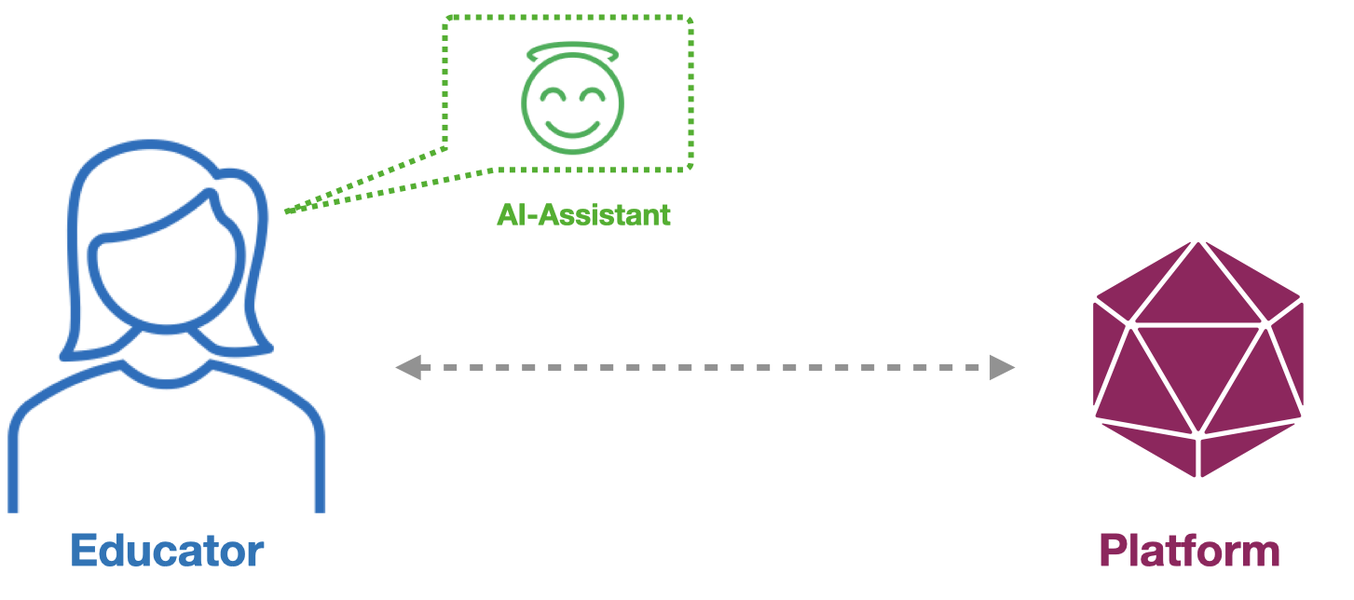
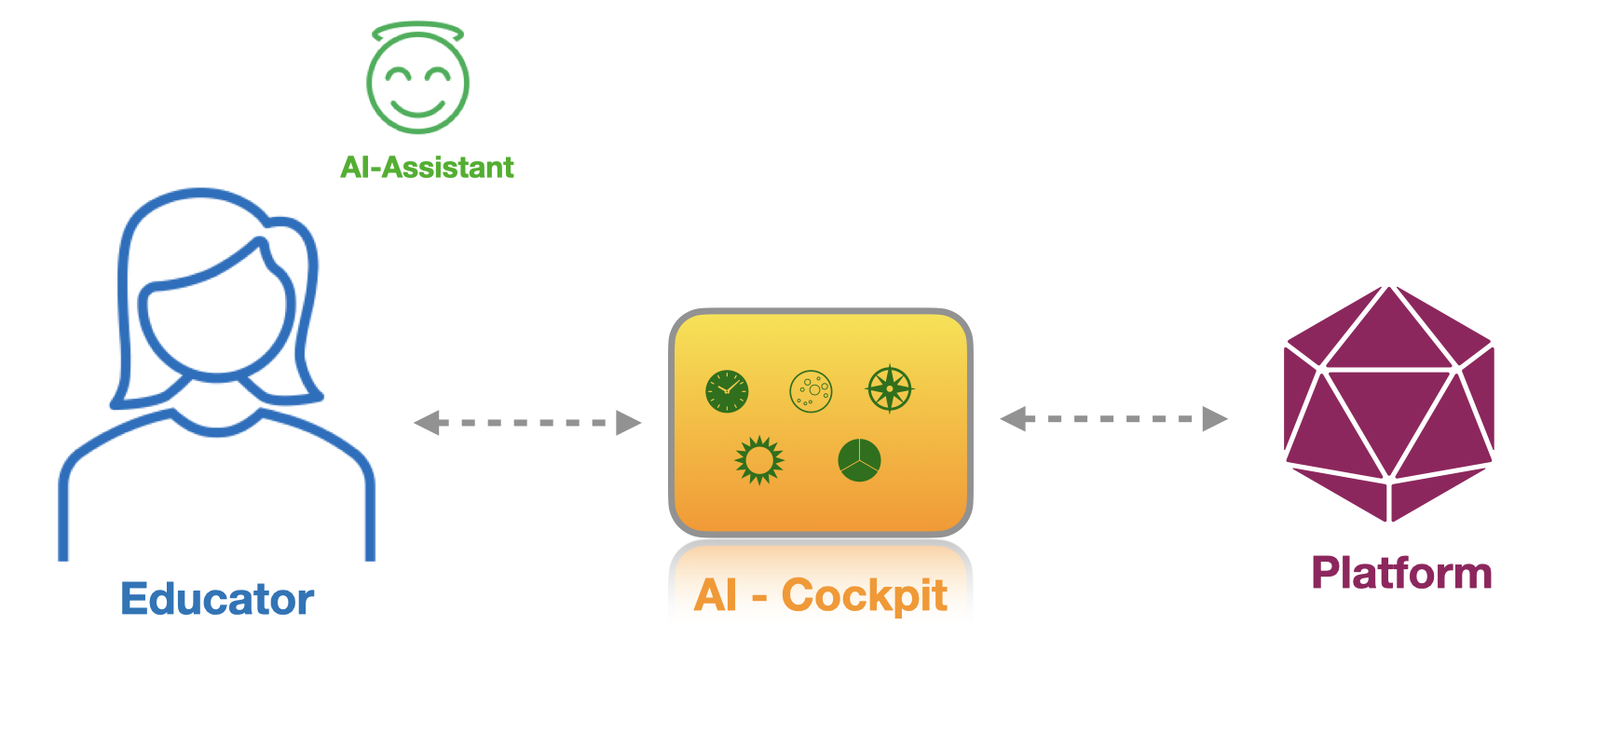
Update documentation

diff --git a/searchindex.js b/searchindex.js
@@ -1,1 +1,1 @@
-Search.setIndex({"docnames": ["ada", "ala", "alonzo", "author", "board", "emmy", "intro", "jorge", "maryam", "platformoverview", "team", "workflow"], "filenames": ["ada.md", "ala.md", "alonzo.md", "author.md", "board.md", "emmy.md", "intro.md", "jorge.md", "maryam.md", "platformoverview.md", "team.md", "workflow.md"], "titles": ["<font color=\"maroon\">AI-Learn Ada</font>", "<font color=\"maroon\">Pedagogical Design</font>", "<font color=\"maroon\">AI-Learn Alonzo</font>", "<font color=\"maroon\">AI-Learn Author</font>", "<font color=\"maroon\">Board of Advisors</font>", "<font color=\"maroon\">AI-Learn Emmy</font>", "<font color=\"maroon\">Overview</font>", "<font color=\"maroon\">AI-Learn Jorge</font>", "<font color=\"maroon\">AI-Learn Maryam</font>", "<font color=\"maroon\">Platform</font>", "<font color=\"maroon\">Project Team</font>", "<font color=\"maroon\">Workflow</font>"], "terms": {"base": [0, 1, 3, 5, 6, 8, 9, 11], "larg": [0, 3, 6, 11], "languag": [0, 3, 6, 11], "model": [0, 3, 4, 6, 11], "llm": [0, 3, 6, 11], "extract": [0, 3, 9, 11], "engin": [0, 2, 3, 9, 11], "automat": [0, 3, 9, 11], "gener": [0, 2, 9], "ala": [0, 1, 2, 3, 7, 11], "from": [0, 3, 4, 6, 11], "web": [0, 3, 11], "open": [0, 3, 10, 11], "educ": [0, 3, 4, 6, 11], "resourc": [0, 3, 6, 11], "oer": [0, 3, 11], "proprietari": [0, 3, 11], "digit": [0, 3, 4, 6, 7, 8, 9, 11], "materi": [0, 1, 3, 9, 11], "It": [0, 2, 3, 7, 8], "name": [0, 2, 7, 8], "after": [0, 2, 3, 7, 8], "british": 0, "mathematician": [0, 2, 8], "comput": 0, "scientist": [0, 4], "lovelac": 0, "The": [1, 3, 4, 9, 10, 11], "cornerston": 1, "ai": [1, 6, 9, 10, 11], "s": [1, 3, 4, 8, 9, 11], "pedagog": [], "smart": 1, "modular": [1, 3, 6, 11], "align": 1, "activ": [1, 4], "an": [1, 2, 3, 4, 5, 6, 9, 11], "semant": 1, "tripl": 1, "consist": [1, 9], "object": 1, "assess": 1, "tradit": 1, "forward": 1, "process": [1, 4], "instructor": [1, 3], "begin": 1, "instruct": [1, 3, 6, 7, 11], "develop": [1, 4, 6], "around": 1, "get": 1, "goal": [1, 4], "research": [1, 4, 6], "evid": 1, "strongli": 1, "suggest": 1, "outcom": 1, "can": [1, 3, 4, 6, 11], "improv": [1, 4, 6], "In": [1, 3, 4, 11], "identifi": [], "first": 1, "thei": 1, "embodi": [], "knowledg": [1, 4], "skill": [1, 6, 9, 11], "student": 1, "expect": 1, "master": 1, "second": 1, "stage": 1, "defin": 1, "measur": [1, 2], "evalu": [1, 6, 9], "whether": 1, "have": [1, 4, 6], "attain": 1, "ongo": 1, "primarili": 1, "form": 1, "final": 1, "come": 1, "last": 1, "how": [1, 11], "dure": 1, "us": [3, 4, 6, 11], "next": [], "describ": [], "detail": [], "A": [], "possibl": [], "futur": [], "ess16": [], "advanc": [2, 3, 9, 11], "analyt": [2, 4, 9], "insight": [2, 9], "just": [2, 4], "time": 2, "efficaci": [2, 9], "deploi": [2, 3, 6, 11], "american": 2, "church": 2, "wizard": [3, 9], "design": [3, 6, 9, 11], "canva": [3, 9, 11], "edit": [3, 11], "primari": 3, "end": 3, "user": 3, "tool": [3, 6, 11], "interact": [3, 11], "platform": [3, 6, 11], "typic": [1, 3], "present": 3, "mode": [3, 11], "work": [3, 4, 6, 11], "perform": [3, 4, 11], "ada": [3, 9, 11], "discoveri": [3, 11], "search": [3, 11], "against": [3, 11], "repositori": [3, 7, 9, 11], "jorg": [3, 9, 11], "recommend": [3, 9, 11], "ar": [1, 3, 4, 11], "popul": [3, 11], "also": [3, 4, 6, 11], "marketplac": [3, 11], "exchang": [3, 11], "licens": [3, 6, 11], "term": [3, 11], "set": [3, 4, 11], "individu": [3, 4], "institut": [3, 4, 11], "contributor": 3, "tag": [3, 11], "rate": [3, 11], "annot": [3, 11], "allow": 3, "creat": [3, 6, 9, 11], "scratch": [3, 11], "deploy": [3, 11], "manag": [3, 6, 7, 9, 11], "system": [3, 4, 5, 6, 9, 11], "standard": [3, 11], "protocol": [3, 11], "1edtech": [3, 11], "interoper": [3, 11], "lti": [3, 11], "intellig": [4, 5, 6, 9, 11], "tutor": [5, 6, 9, 11], "fulli": [], "toolset": 6, "discov": [], "share": 6, "data": 6, "enabl": [], "atom": [], "drive": [], "teach": [], "six": 9, "major": 9, "compon": [4, 9], "author": [9, 11], "alonzo": 9, "causal": [], "inferenc": [], "emmi": 9, "crowd": [7, 9], "searchabl": [7, 9], "pre": [6, 9], "configur": 9, "robust": [7, 9], "ip": [7, 9], "maryam": 9, "infrastructur": [8, 9], "includ": [6, 8, 9], "cloud": [8, 9], "servic": [8, 9], "secur": [8, 9], "scalabl": [8, 9], "integr": [8, 9], "democrat": [], "lower": [], "cost": 6, "increas": [], "valu": 6, "autom": [], "tediou": [], "part": [], "curriculum": [6, 9, 11], "har": [], "power": 6, "provid": 4, "librari": [], "leverag": [], "softwar": [], "methodolog": [], "govern": 4, "easi": [], "custom": 6, "vital": [], "new": 4, "area": [], "workforc": [], "adult": [], "deliv": 9, "qualiti": 6, "monitor": [], "establish": [], "market": [], "place": 6, "monet": [], "codebas": [], "made": [], "avail": [], "under": 6, "mit": 6, "sourc": [7, 9, 10], "argentian": 7, "writer": 7, "poet": 7, "borg": 7, "iranian": 8, "mirzakhani": 8, "learn": [1, 4, 6, 9, 10, 11], "led": 10, "co": [], "princip": [], "investig": [], "alfr": 10, "essa": 10, "ceo": 10, "druri": 10, "lane": 10, "media": 10, "llc": 10, "kinshuk": 10, "dean": 10, "colleg": 10, "inform": 10, "studi": 10, "univers": [4, 10], "north": 10, "texa": 10, "we": 6, "start": [], "becaus": [], "everi": 6, "citizen": 6, "should": 6, "access": 6, "afford": 6, "effect": [4, 6], "support": [], "train": 6, "worker": [], "onc": [], "throughout": [], "lifetim": [], "cut": 6, "out": 6, "middlemen": 6, "domain": [], "expert": [], "receiv": [], "action": [], "need": 6, "our": 6, "dramat": 6, "reduc": 6, "think": [], "import": [], "opportun": [], "reskil": [], "upskil": [], "histor": 6, "margin": 6, "learner": [4, 6, 9], "directli": 6, "hand": 6, "so": [], "acceler": [], "what": 6, "element": [], "more": 6, "colleagu": 6, "global": 6, "commun": [4, 6], "deep": [], "correct": [], "make": 6, "them": [], "least": 6, "10x": [], "achiev": 6, "5": 6, "size": 6, "repres": [], "breakthrough": [], "artifici": [], "By": [], "now": [], "complex": 4, "task": 4, "littl": [], "chang": [4, 6], "workflow": 6, "10": 6, "x": 6, "agent": 11, "assist": [4, 11], "behalf": 11, "topic": 9, "page": [], "http": [], "hai": [], "stanford": [], "edu": [], "transform": [4, 6], "scienc": 4, "societi": 4, "person": 9, "each": 9, "textbook": 1, "quizz": 1, "test": 1, "eveventu": 1, "formul": [1, 4], "state": 1, "mean": 1, "low": 1, "stake": 1, "believ": 6, "those": 6, "doe": 11, "specif": 6, "mission": [], "nbsp": [9, 11], "www": [], "imsglob": [], "org": [], "upon": [], "call": 6, "equat": 6, "emploi": 11, "follow": [4, 11], "associ": 4, "professor": 4, "memphi": 4, "sinc": 4, "januari": 4, "2001": 4, "hi": 4, "program": 4, "ha": 4, "focus": 4, "practic": 4, "forget": 4, "fact": 4, "memori": 4, "ultim": 4, "thi": 4, "accur": 4, "mathemat": 4, "understand": 4, "factor": 4, "recal": 4, "doctor": 4, "thesi": 4, "john": 4, "r": 4, "anderson": 4, "septemb": 4, "2005": 4, "broaden": 4, "simpl": 4, "declar": 4, "consid": 4, "transfer": 4, "procedur": 4, "multipl": 4, "generaliz": 4, "postdoctor": 4, "kenneth": 4, "koeding": 4, "2008": 4, "continu": 4, "some": 4, "previou": 4, "theme": 4, "focu": 4, "depend": 4, "structur": 4, "conceptu": 4, "oleksandra": 4, "depart": 4, "school": 4, "social": 4, "technolog": 4, "technic": 4, "munich": 4, "she": 4, "adjunct": 4, "affili": 4, "centr": 4, "south": 4, "australia": 4, "At": 4, "tum": 4, "lead": 4, "group": 4, "leap": 4, "interest": 4, "past": 4, "interdisciplinar": 4, "pari": 4, "appli": 4, "nation": 4, "singapor": 4, "driven": 4, "about": 4, "ani": 4, "relat": 4, "her": 4, "strong": 4, "foundat": 4, "intervent": 4, "facilit": 4, "peer": 4, "level": 4, "cours": 4, "keen": 4, "len": 4, "analyz": 4, "organ": 4, "network": 4, "dynam": 4, "adapt": 4, "multi": 4, "among": 4, "heterogen": 4, "both": 4, "explanatori": 4, "descript": 4, "wa": 4, "vice": 4, "presid": 4, "execut": 4, "committe": 4, "solar": 4, "remain": 4, "member": 4, "project": [], "code": 6, "releas": 6, "being": 6}, "objects": {}, "objtypes": {}, "objnames": {}, "titleterms": {"font": [0, 1, 2, 3, 4, 5, 6, 7, 8, 9, 10, 11], "color": [0, 1, 2, 3, 4, 5, 6, 7, 8, 9, 10, 11], "maroon": [0, 1, 2, 3, 4, 5, 6, 7, 8, 9, 10, 11], "ai": [0, 2, 3, 5, 7, 8], "learn": [0, 2, 3, 5, 7, 8], "ada": 0, "what": [], "ar": [], "ala": [], "backward": 1, "design": 1, "adapt": [], "system": [], "alonzo": 2, "author": 3, "board": 4, "advisor": 4, "emmi": 5, "overview": 6, "platform": 9, "why": [], "open": 6, "sourc": 6, "jorg": 7, "maryam": 8, "team": 10, "mission": 6, "how": [], "doe": [], "work": [], "align": [], "activ": [], "user": [], "experi": [], "pedagog": 1, "workflow": 11, "philip": 4, "pavlik": 4, "sasha": 4, "poquet": 4, "princip": [], "investig": [], "project": 10}, "envversion": {"sphinx.domains.c": 2, "sphinx.domains.changeset": 1, "sphinx.domains.citation": 1, "sphinx.domains.cpp": 6, "sphinx.domains.index": 1, "sphinx.domains.javascript": 2, "sphinx.domains.math": 2, "sphinx.domains.python": 3, "sphinx.domains.rst": 2, "sphinx.domains.std": 2, "sphinx.ext.intersphinx": 1, "sphinxcontrib.bibtex": 9, "sphinx": 56}})
+Search.setIndex({"docnames": ["ada", "ala", "alonzo", "author", "board", "emmy", "intro", "jorge", "maryam", "platformoverview", "team", "workflow"], "filenames": ["ada.md", "ala.md", "alonzo.md", "author.md", "board.md", "emmy.md", "intro.md", "jorge.md", "maryam.md", "platformoverview.md", "team.md", "workflow.md"], "titles": ["<font color=\"maroon\">AI-Learn Ada</font>", "<font color=\"maroon\">Pedagogical Design</font>", "<font color=\"maroon\">AI-Learn Alonzo</font>", "<font color=\"maroon\">AI-Learn Author</font>", "<font color=\"maroon\">Board of Advisors</font>", "<font color=\"maroon\">AI-Learn Emmy</font>", "<font color=\"maroon\">Overview</font>", "<font color=\"maroon\">AI-Learn Jorge</font>", "<font color=\"maroon\">AI-Learn Maryam</font>", "<font color=\"maroon\">Platform</font>", "<font color=\"maroon\">Project Team</font>", "<font color=\"maroon\">AI-Cockpit</font>"], "terms": {"base": [0, 1, 3, 5, 6, 8, 9, 11], "larg": [0, 3, 6, 11], "languag": [0, 3, 6, 11], "model": [0, 3, 4, 6, 11], "llm": [0, 3, 6, 11], "extract": [0, 3, 9, 11], "engin": [0, 2, 3, 9, 11], "automat": [0, 3, 9, 11], "gener": [0, 2, 9], "ala": [0, 1, 2, 3, 7, 11], "from": [0, 3, 4, 6, 11], "web": [0, 3, 11], "open": [0, 3, 10, 11], "educ": [0, 3, 4, 6, 11], "resourc": [0, 3, 6, 11], "oer": [0, 3, 11], "proprietari": [0, 3, 11], "digit": [0, 3, 4, 6, 7, 8, 9, 11], "materi": [0, 1, 3, 9, 11], "It": [0, 2, 3, 7, 8], "name": [0, 2, 7, 8], "after": [0, 2, 3, 7, 8], "british": 0, "mathematician": [0, 2, 8], "comput": 0, "scientist": [0, 4], "lovelac": 0, "The": [1, 3, 4, 9, 10, 11], "cornerston": 1, "ai": [1, 6, 9, 10], "s": [1, 3, 4, 8, 9, 11], "pedagog": [], "smart": 1, "modular": [1, 3, 6, 11], "align": 1, "activ": [1, 4], "an": [1, 2, 3, 4, 5, 6, 9, 11], "semant": 1, "tripl": 1, "consist": [1, 9, 11], "object": 1, "assess": 1, "tradit": 1, "forward": 1, "process": [1, 4], "instructor": [1, 3], "begin": 1, "instruct": [1, 3, 6, 7, 11], "develop": [1, 4, 6], "around": 1, "get": 1, "goal": [1, 4], "research": [1, 4, 6], "evid": 1, "strongli": 1, "suggest": 1, "outcom": 1, "can": [1, 3, 4, 6, 11], "improv": [1, 4, 6, 11], "In": [1, 3, 4, 11], "identifi": [], "first": 1, "thei": 1, "embodi": [], "knowledg": [1, 4], "skill": [1, 6, 9, 11], "student": 1, "expect": 1, "master": 1, "second": 1, "stage": 1, "defin": 1, "measur": [1, 2], "evalu": [1, 6, 9], "whether": 1, "have": [1, 4, 6], "attain": 1, "ongo": 1, "primarili": 1, "form": 1, "final": 1, "come": 1, "last": 1, "how": [1, 11], "dure": 1, "us": [3, 4, 6, 11], "next": [], "describ": [], "detail": [], "A": 11, "possibl": [], "futur": [], "ess16": [], "advanc": [2, 3, 9, 11], "analyt": [2, 4, 9], "insight": [2, 9], "just": [2, 4], "time": 2, "efficaci": [2, 9], "deploi": [2, 3, 6, 11], "american": 2, "church": 2, "wizard": [3, 9, 11], "design": [3, 6, 9, 11], "canva": [3, 9, 11], "edit": [3, 11], "primari": 3, "end": 3, "user": 3, "tool": [3, 6, 11], "interact": 3, "platform": [3, 6], "typic": [1, 3, 11], "present": [3, 11], "mode": [3, 11], "work": [3, 4, 6, 11], "perform": [3, 4, 11], "ada": [3, 9, 11], "discoveri": [3, 11], "search": [3, 11], "against": [3, 11], "repositori": [3, 7, 9, 11], "jorg": [3, 9, 11], "recommend": [3, 9, 11], "ar": [1, 3, 4, 11], "popul": [3, 11], "also": [3, 4, 6, 11], "marketplac": [3, 11], "exchang": [3, 11], "licens": [3, 6, 11], "term": [3, 11], "set": [3, 4, 11], "individu": [3, 4], "institut": [3, 4, 11], "contributor": 3, "tag": [3, 11], "rate": [3, 11], "annot": [3, 11], "allow": 3, "creat": [3, 6, 9, 11], "scratch": [3, 11], "deploy": [3, 11], "manag": [3, 6, 7, 9, 11], "system": [3, 4, 5, 6, 9, 11], "standard": [3, 11], "protocol": [3, 11], "1edtech": [3, 11], "interoper": [3, 11], "lti": [3, 11], "intellig": [4, 5, 6, 9, 11], "tutor": [5, 6, 9, 11], "fulli": [], "toolset": 6, "discov": [], "share": 6, "data": 6, "enabl": [], "atom": [], "drive": [], "teach": [], "six": 9, "major": [9, 11], "compon": [4, 9], "author": [9, 11], "alonzo": 9, "causal": [], "inferenc": [], "emmi": 9, "crowd": [7, 9], "searchabl": [7, 9], "pre": [6, 9], "configur": 9, "robust": [7, 9], "ip": [7, 9], "maryam": 9, "infrastructur": [8, 9], "includ": [6, 8, 9], "cloud": [8, 9], "servic": [8, 9], "secur": [8, 9], "scalabl": [8, 9], "integr": [8, 9], "democrat": [], "lower": [], "cost": 6, "increas": [], "valu": 6, "autom": [], "tediou": [], "part": 11, "curriculum": [6, 9, 11], "har": [], "power": 6, "provid": 4, "librari": [], "leverag": [], "softwar": [], "methodolog": [], "govern": 4, "easi": [], "custom": 6, "vital": [], "new": 4, "area": [], "workforc": [], "adult": [], "deliv": 9, "qualiti": 6, "monitor": [], "establish": [], "market": [], "place": 6, "monet": [], "codebas": [], "made": [], "avail": [], "under": 6, "mit": 6, "sourc": [7, 9, 10], "argentian": 7, "writer": 7, "poet": 7, "borg": 7, "iranian": 8, "mirzakhani": 8, "learn": [1, 4, 6, 9, 10, 11], "led": 10, "co": [], "princip": [], "investig": [], "alfr": 10, "essa": 10, "ceo": 10, "druri": 10, "lane": 10, "media": 10, "llc": 10, "kinshuk": 10, "dean": 10, "colleg": 10, "inform": 10, "studi": 10, "univers": [4, 10], "north": 10, "texa": 10, "we": 6, "start": [], "becaus": [], "everi": 6, "citizen": 6, "should": 6, "access": 6, "afford": 6, "effect": [4, 6], "support": [], "train": 6, "worker": [], "onc": [], "throughout": [], "lifetim": [], "cut": 6, "out": 6, "middlemen": 6, "domain": [], "expert": [], "receiv": [], "action": [], "need": 6, "our": 6, "dramat": 6, "reduc": 6, "think": [], "import": [], "opportun": [], "reskil": [], "upskil": [], "histor": 6, "margin": 6, "learner": [4, 6, 9], "directli": 6, "hand": 6, "so": [], "acceler": [], "what": 6, "element": [], "more": 6, "colleagu": 6, "global": 6, "commun": [4, 6], "deep": [], "correct": [], "make": 6, "them": [], "least": 6, "10x": [], "achiev": 6, "5": 6, "size": 6, "repres": [], "breakthrough": [], "artifici": [], "By": [], "now": [], "complex": 4, "task": [4, 11], "littl": [], "chang": [4, 6], "workflow": [6, 11], "10": 6, "x": 6, "agent": 11, "assist": [4, 11], "behalf": [], "topic": 9, "page": [], "http": [], "hai": [], "stanford": [], "edu": [], "transform": [4, 6], "scienc": 4, "societi": 4, "person": 9, "each": [9, 11], "textbook": 1, "quizz": 1, "test": 1, "eveventu": 1, "formul": [1, 4], "state": 1, "mean": 1, "low": 1, "stake": 1, "believ": 6, "those": 6, "doe": 11, "specif": 6, "mission": [], "nbsp": [9, 11], "www": [], "imsglob": [], "org": [], "upon": [], "call": [6, 11], "equat": 6, "emploi": [], "follow": [4, 11], "associ": 4, "professor": 4, "memphi": 4, "sinc": 4, "januari": 4, "2001": 4, "hi": 4, "program": 4, "ha": [4, 11], "focus": 4, "practic": 4, "forget": 4, "fact": 4, "memori": 4, "ultim": 4, "thi": 4, "accur": 4, "mathemat": 4, "understand": 4, "factor": 4, "recal": 4, "doctor": 4, "thesi": 4, "john": 4, "r": 4, "anderson": 4, "septemb": 4, "2005": 4, "broaden": 4, "simpl": 4, "declar": 4, "consid": 4, "transfer": 4, "procedur": 4, "multipl": 4, "generaliz": 4, "postdoctor": 4, "kenneth": 4, "koeding": 4, "2008": 4, "continu": 4, "some": 4, "previou": 4, "theme": 4, "focu": 4, "depend": 4, "structur": 4, "conceptu": 4, "oleksandra": 4, "depart": 4, "school": 4, "social": 4, "technolog": 4, "technic": 4, "munich": 4, "she": 4, "adjunct": 4, "affili": 4, "centr": 4, "south": 4, "australia": 4, "At": 4, "tum": 4, "lead": 4, "group": 4, "leap": 4, "interest": 4, "past": 4, "interdisciplinar": 4, "pari": 4, "appli": 4, "nation": 4, "singapor": 4, "driven": 4, "about": 4, "ani": 4, "relat": 4, "her": 4, "strong": 4, "foundat": 4, "intervent": 4, "facilit": 4, "peer": 4, "level": 4, "cours": 4, "keen": 4, "len": 4, "analyz": 4, "organ": 4, "network": 4, "dynam": 4, "adapt": 4, "multi": 4, "among": 4, "heterogen": 4, "both": 4, "explanatori": 4, "descript": 4, "wa": 4, "vice": 4, "presid": 4, "execut": 4, "committe": 4, "solar": 4, "remain": 4, "member": 4, "project": [], "code": 6, "releas": 6, "being": 6, "central": 11, "metaphor": 11, "pilot": 11, "fly": 11, "airplan": 11, "similarli": 11, "common": 11, "instrument": 11, "For": 11, "exampl": 11, "aid": 11, "session": 11, "might": 11, "variou": 11, "where": 11, "correspond": 11, "behind": 11, "scene": 11, "review": 11}, "objects": {}, "objtypes": {}, "objnames": {}, "titleterms": {"font": [0, 1, 2, 3, 4, 5, 6, 7, 8, 9, 10, 11], "color": [0, 1, 2, 3, 4, 5, 6, 7, 8, 9, 10, 11], "maroon": [0, 1, 2, 3, 4, 5, 6, 7, 8, 9, 10, 11], "ai": [0, 2, 3, 5, 7, 8, 11], "learn": [0, 2, 3, 5, 7, 8], "ada": 0, "what": [], "ar": [], "ala": [], "backward": 1, "design": 1, "adapt": [], "system": [], "alonzo": 2, "author": 3, "board": 4, "advisor": 4, "emmi": 5, "overview": 6, "platform": 9, "why": [], "open": 6, "sourc": 6, "jorg": 7, "maryam": 8, "team": 10, "mission": 6, "how": [], "doe": [], "work": [], "align": [], "activ": [], "user": [], "experi": [], "pedagog": 1, "workflow": [], "philip": 4, "pavlik": 4, "sasha": 4, "poquet": 4, "princip": [], "investig": [], "project": 10, "cockpit": 11}, "envversion": {"sphinx.domains.c": 2, "sphinx.domains.changeset": 1, "sphinx.domains.citation": 1, "sphinx.domains.cpp": 6, "sphinx.domains.index": 1, "sphinx.domains.javascript": 2, "sphinx.domains.math": 2, "sphinx.domains.python": 3, "sphinx.domains.rst": 2, "sphinx.domains.std": 2, "sphinx.ext.intersphinx": 1, "sphinxcontrib.bibtex": 9, "sphinx": 56}})

diff --git a/workflow.html b/workflow.html
@@ -6,7 +6,7 @@
     <meta charset="utf-8" />
     <meta name="viewport" content="width=device-width, initial-scale=1.0" /><meta name="generator" content="Docutils 0.18.1: http://docutils.sourceforge.net/" />
 
-    <title>Workflow &#8212; AI-Learn</title>
+    <title>AI-Cockpit &#8212; AI-Learn</title>
     
   <!-- Loaded before other Sphinx assets -->
   <link href="_static/styles/theme.css?digest=1999514e3f237ded88cf" rel="stylesheet">
@@ -130,7 +130,7 @@ const thebe_selector_output = ".output, .cell_output"
  <li class="toctree-l1 current active">
   <a class="current reference internal" href="#">
    <font color="maroon">
-    Workflow
+    AI-Cockpit
    </font>
   </a>
  </li>
@@ -378,7 +378,7 @@ title="Print to PDF"
         <div class="col pl-md-3 pl-lg-5 content-container">
             <!-- Table of contents that is only displayed when printing the page -->
             <div id="jb-print-docs-body" class="onlyprint">
-                <h1><font color="maroon">Workflow</font></h1>
+                <h1><font color="maroon">AI-Cockpit</font></h1>
                 <!-- Table of contents -->
                 <div id="print-main-content">
                     <div id="jb-print-toc">
@@ -390,17 +390,18 @@ title="Print to PDF"
                 
               <div>
                 
-  <section class="tex2jax_ignore mathjax_ignore" id="font-color-maroon-workflow-font">
-<span id="page-workflow"></span><h1><font color="maroon">Workflow</font><a class="headerlink" href="#font-color-maroon-workflow-font" title="Permalink to this heading">#</a></h1>
-<p>An Educator employs an intelligent agent (AI-Assistant) to design a skills-based curriculum. AI-Assistant interacts with the AI-Learn platform on behalf of the educator.</p>
+  <section class="tex2jax_ignore mathjax_ignore" id="font-color-maroon-ai-cockpit-font">
+<span id="page-workflow"></span><h1><font color="maroon">AI-Cockpit</font><a class="headerlink" href="#font-color-maroon-ai-cockpit-font" title="Permalink to this heading">#</a></h1>
+<p>The central metaphor of AI-Learn is a pilot flying an airplane. Similarly, an Educator uses the AI-Cockpit to design, deploy, and improve a skills-based curriculum. Common tasks are presented as instruments in the AI-Cockpit. For example, the instrument for the design tasks are an authoring wizard and design canvas. The educator has an aid an intelligent agent called AI-Assistant.</p>
 <figure class="align-center" id="id1">
 <a class="reference internal image-reference" href="_images/howdoesitwork.png"><img alt="_images/howdoesitwork.png" src="_images/howdoesitwork.png" style="width: 600px;" /></a>
 <figcaption>
 <p><span class="caption-number">Fig. 4 </span><span class="caption-text">How Does AI-Learn Work?</span><a class="headerlink" href="#id1" title="Permalink to this image">#</a></p>
 </figcaption>
 </figure>
+<p>A typical session might consists of various modes, where each mode corresponds to a major task as part of the design workflow:</p>
 <ul class="simple">
-<li><p>In <strong>extraction</strong> mode, AI-Learn automatically extracts ALAs from the web, Open Educational Resources (OER), and proprietary digital instructional materials. The work is performed by <a class="reference internal" href="ada.html#page-ada"><span class="std std-ref">AI-Ada</span></a>, an AI engine based on Large Language Models (LLMs). The extracted ALAs are populated in <a class="reference internal" href="author.html#page-author"><span class="std std-ref">AI-Author</span></a>, the design canvas.</p></li>
+<li><p>In <strong>extraction</strong> mode, AI-Learn automatically extracts ALAs from the web, Open Educational Resources (OER), or proprietary digital instructional materials. Behind the scenes, the work is performed by <a class="reference internal" href="ada.html#page-ada"><span class="std std-ref">AI-Ada</span></a>: an AI engine based on Large Language Models (LLMs). The extracted ALAs are then populated in AI-Author, the design canvas for review and edits.</p></li>
 </ul>
 <p>&nbsp;</p>
 <ul class="simple">
@@ -408,7 +409,7 @@ title="Print to PDF"
 </ul>
 <p>&nbsp;</p>
 <ul class="simple">
-<li><p>In <strong>discovery</strong> mode, AI-Learn performs advanced search and discovery against a digital repository <a class="reference internal" href="jorge.html#page-jorge"><span class="std std-ref">AI-Jorge</span></a>. The AI-based recommendations are populated in the design canvas. AI-Jorge is also a marketplace for exchanging ALAs based on license terms set by educators and institutions. Educators can also tag, rate, annotate, and recommend ALAs.</p></li>
+<li><p>In <strong>discovery</strong> mode, AI-Learn performs advanced search and discovery against a digital repository <a class="reference internal" href="jorge.html#page-jorge"><span class="std std-ref">AI-Jorge</span></a>. The AI-based recommendations are populated in AI-Author. AI-Jorge is also a marketplace for exchanging ALAs based on license terms set by educators and institutions. Educators can also tag, rate, annotate, and recommend ALAs.</p></li>
 </ul>
 <p>&nbsp;</p>
 <ul class="simple">

diff --git a/ala.html b/ala.html
@@ -53,7 +53,7 @@ const thebe_selector_output = ".output, .cell_output"
     <script async="async" src="_static/sphinx-thebe.js"></script>
     <link rel="index" title="Index" href="genindex.html" />
     <link rel="search" title="Search" href="search.html" />
-    <link rel="next" title="Workflow" href="workflow.html" />
+    <link rel="next" title="AI-Cockpit" href="workflow.html" />
     <link rel="prev" title="Overview" href="intro.html" />
     <meta name="viewport" content="width=device-width, initial-scale=1" />
     <meta name="docsearch:language" content="en">
@@ -130,7 +130,7 @@ const thebe_selector_output = ".output, .cell_output"
  <li class="toctree-l1">
   <a class="reference internal" href="workflow.html">
    <font color="maroon">
-    Workflow
+    AI-Cockpit
    </font>
   </a>
  </li>
@@ -499,7 +499,7 @@ title="Print to PDF"
     <a class='right-next' id="next-link" href="workflow.html" title="next page">
     <div class="prev-next-info">
         <p class="prev-next-subtitle">next</p>
-        <p class="prev-next-title"><font color="maroon">Workflow</font></p>
+        <p class="prev-next-title"><font color="maroon">AI-Cockpit</font></p>
     </div>
     <i class="fas fa-angle-right"></i>
     </a>

diff --git a/platformoverview.html b/platformoverview.html
@@ -54,7 +54,7 @@ const thebe_selector_output = ".output, .cell_output"
     <link rel="index" title="Index" href="genindex.html" />
     <link rel="search" title="Search" href="search.html" />
     <link rel="next" title="AI-Learn Author" href="author.html" />
-    <link rel="prev" title="Workflow" href="workflow.html" />
+    <link rel="prev" title="AI-Cockpit" href="workflow.html" />
     <meta name="viewport" content="width=device-width, initial-scale=1" />
     <meta name="docsearch:language" content="en">
     
@@ -130,7 +130,7 @@ const thebe_selector_output = ".output, .cell_output"
  <li class="toctree-l1">
   <a class="reference internal" href="workflow.html">
    <font color="maroon">
-    Workflow
+    AI-Cockpit
    </font>
   </a>
  </li>
@@ -455,7 +455,7 @@ title="Print to PDF"
         <i class="fas fa-angle-left"></i>
         <div class="prev-next-info">
             <p class="prev-next-subtitle">previous</p>
-            <p class="prev-next-title"><font color="maroon">Workflow</font></p>
+            <p class="prev-next-title"><font color="maroon">AI-Cockpit</font></p>
         </div>
     </a>
     <a class='right-next' id="next-link" href="author.html" title="next page">

diff --git a/ada.html b/ada.html
@@ -130,7 +130,7 @@ const thebe_selector_output = ".output, .cell_output"
  <li class="toctree-l1">
   <a class="reference internal" href="workflow.html">
    <font color="maroon">
-    Workflow
+    AI-Cockpit
    </font>
   </a>
  </li>

diff --git a/alonzo.html b/alonzo.html
@@ -130,7 +130,7 @@ const thebe_selector_output = ".output, .cell_output"
  <li class="toctree-l1">
   <a class="reference internal" href="workflow.html">
    <font color="maroon">
-    Workflow
+    AI-Cockpit
    </font>
   </a>
  </li>

diff --git a/author.html b/author.html
@@ -130,7 +130,7 @@ const thebe_selector_output = ".output, .cell_output"
  <li class="toctree-l1">
   <a class="reference internal" href="workflow.html">
    <font color="maroon">
-    Workflow
+    AI-Cockpit
    </font>
   </a>
  </li>

diff --git a/board.html b/board.html
@@ -129,7 +129,7 @@ const thebe_selector_output = ".output, .cell_output"
  <li class="toctree-l1">
   <a class="reference internal" href="workflow.html">
    <font color="maroon">
-    Workflow
+    AI-Cockpit
    </font>
   </a>
  </li>

diff --git a/emmy.html b/emmy.html
@@ -130,7 +130,7 @@ const thebe_selector_output = ".output, .cell_output"
  <li class="toctree-l1">
   <a class="reference internal" href="workflow.html">
    <font color="maroon">
-    Workflow
+    AI-Cockpit
    </font>
   </a>
  </li>

diff --git a/genindex.html b/genindex.html
@@ -127,7 +127,7 @@ const thebe_selector_output = ".output, .cell_output"
  <li class="toctree-l1">
   <a class="reference internal" href="workflow.html">
    <font color="maroon">
-    Workflow
+    AI-Cockpit
    </font>
   </a>
  </li>

diff --git a/intro.html b/intro.html
@@ -129,7 +129,7 @@ const thebe_selector_output = ".output, .cell_output"
  <li class="toctree-l1">
   <a class="reference internal" href="workflow.html">
    <font color="maroon">
-    Workflow
+    AI-Cockpit
    </font>
   </a>
  </li>

diff --git a/jorge.html b/jorge.html
@@ -130,7 +130,7 @@ const thebe_selector_output = ".output, .cell_output"
  <li class="toctree-l1">
   <a class="reference internal" href="workflow.html">
    <font color="maroon">
-    Workflow
+    AI-Cockpit
    </font>
   </a>
  </li>
